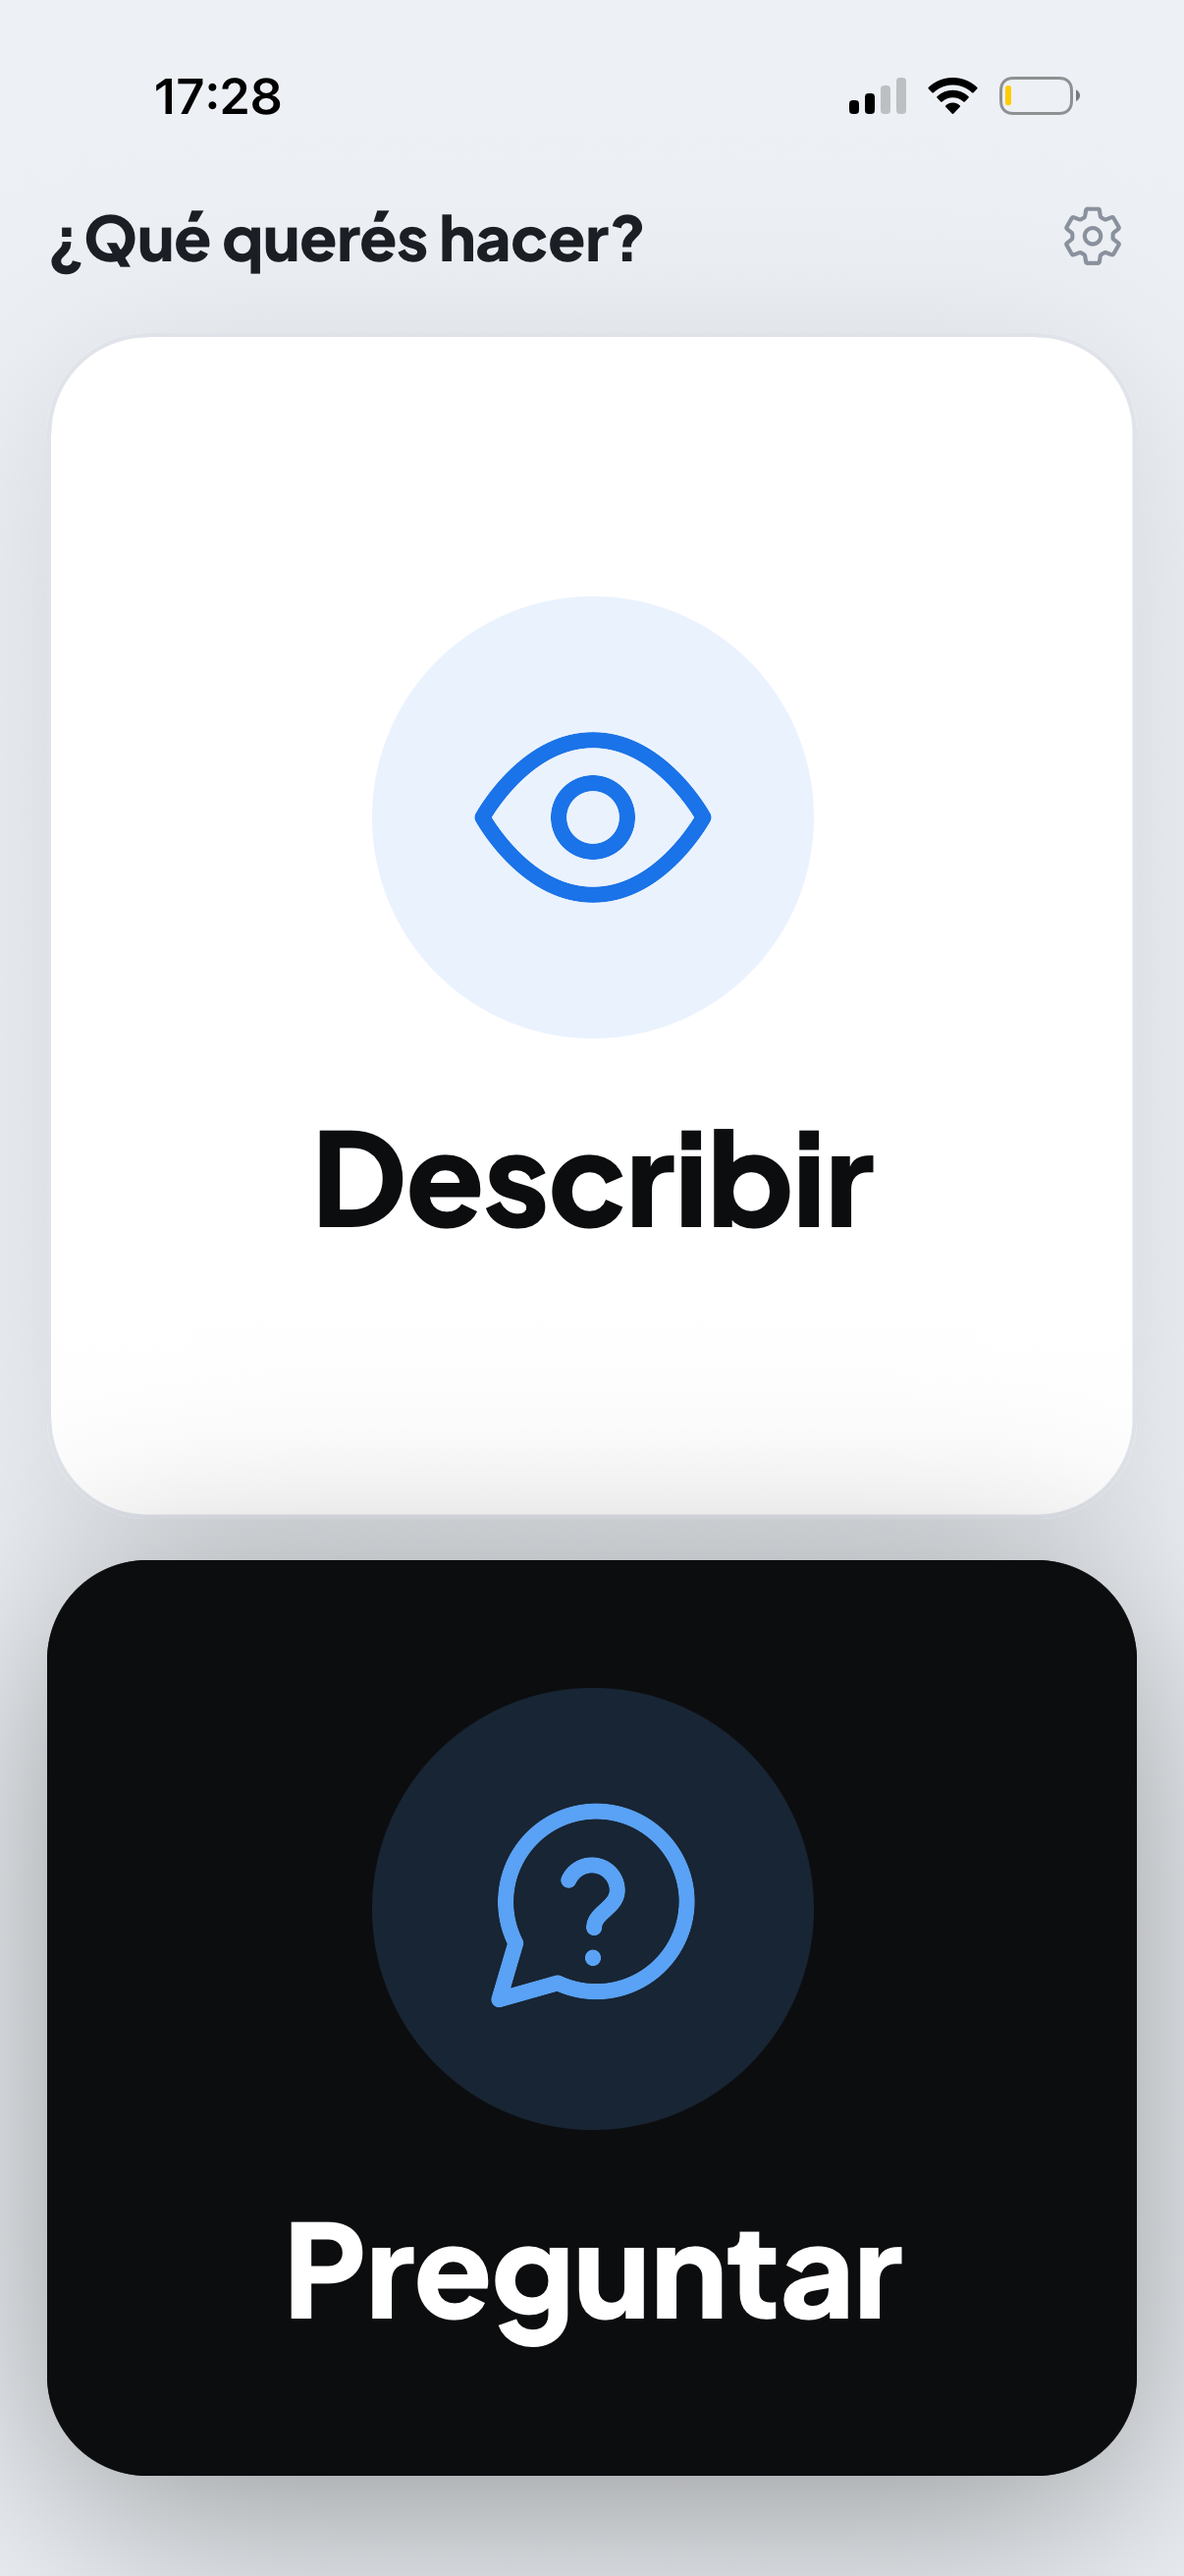
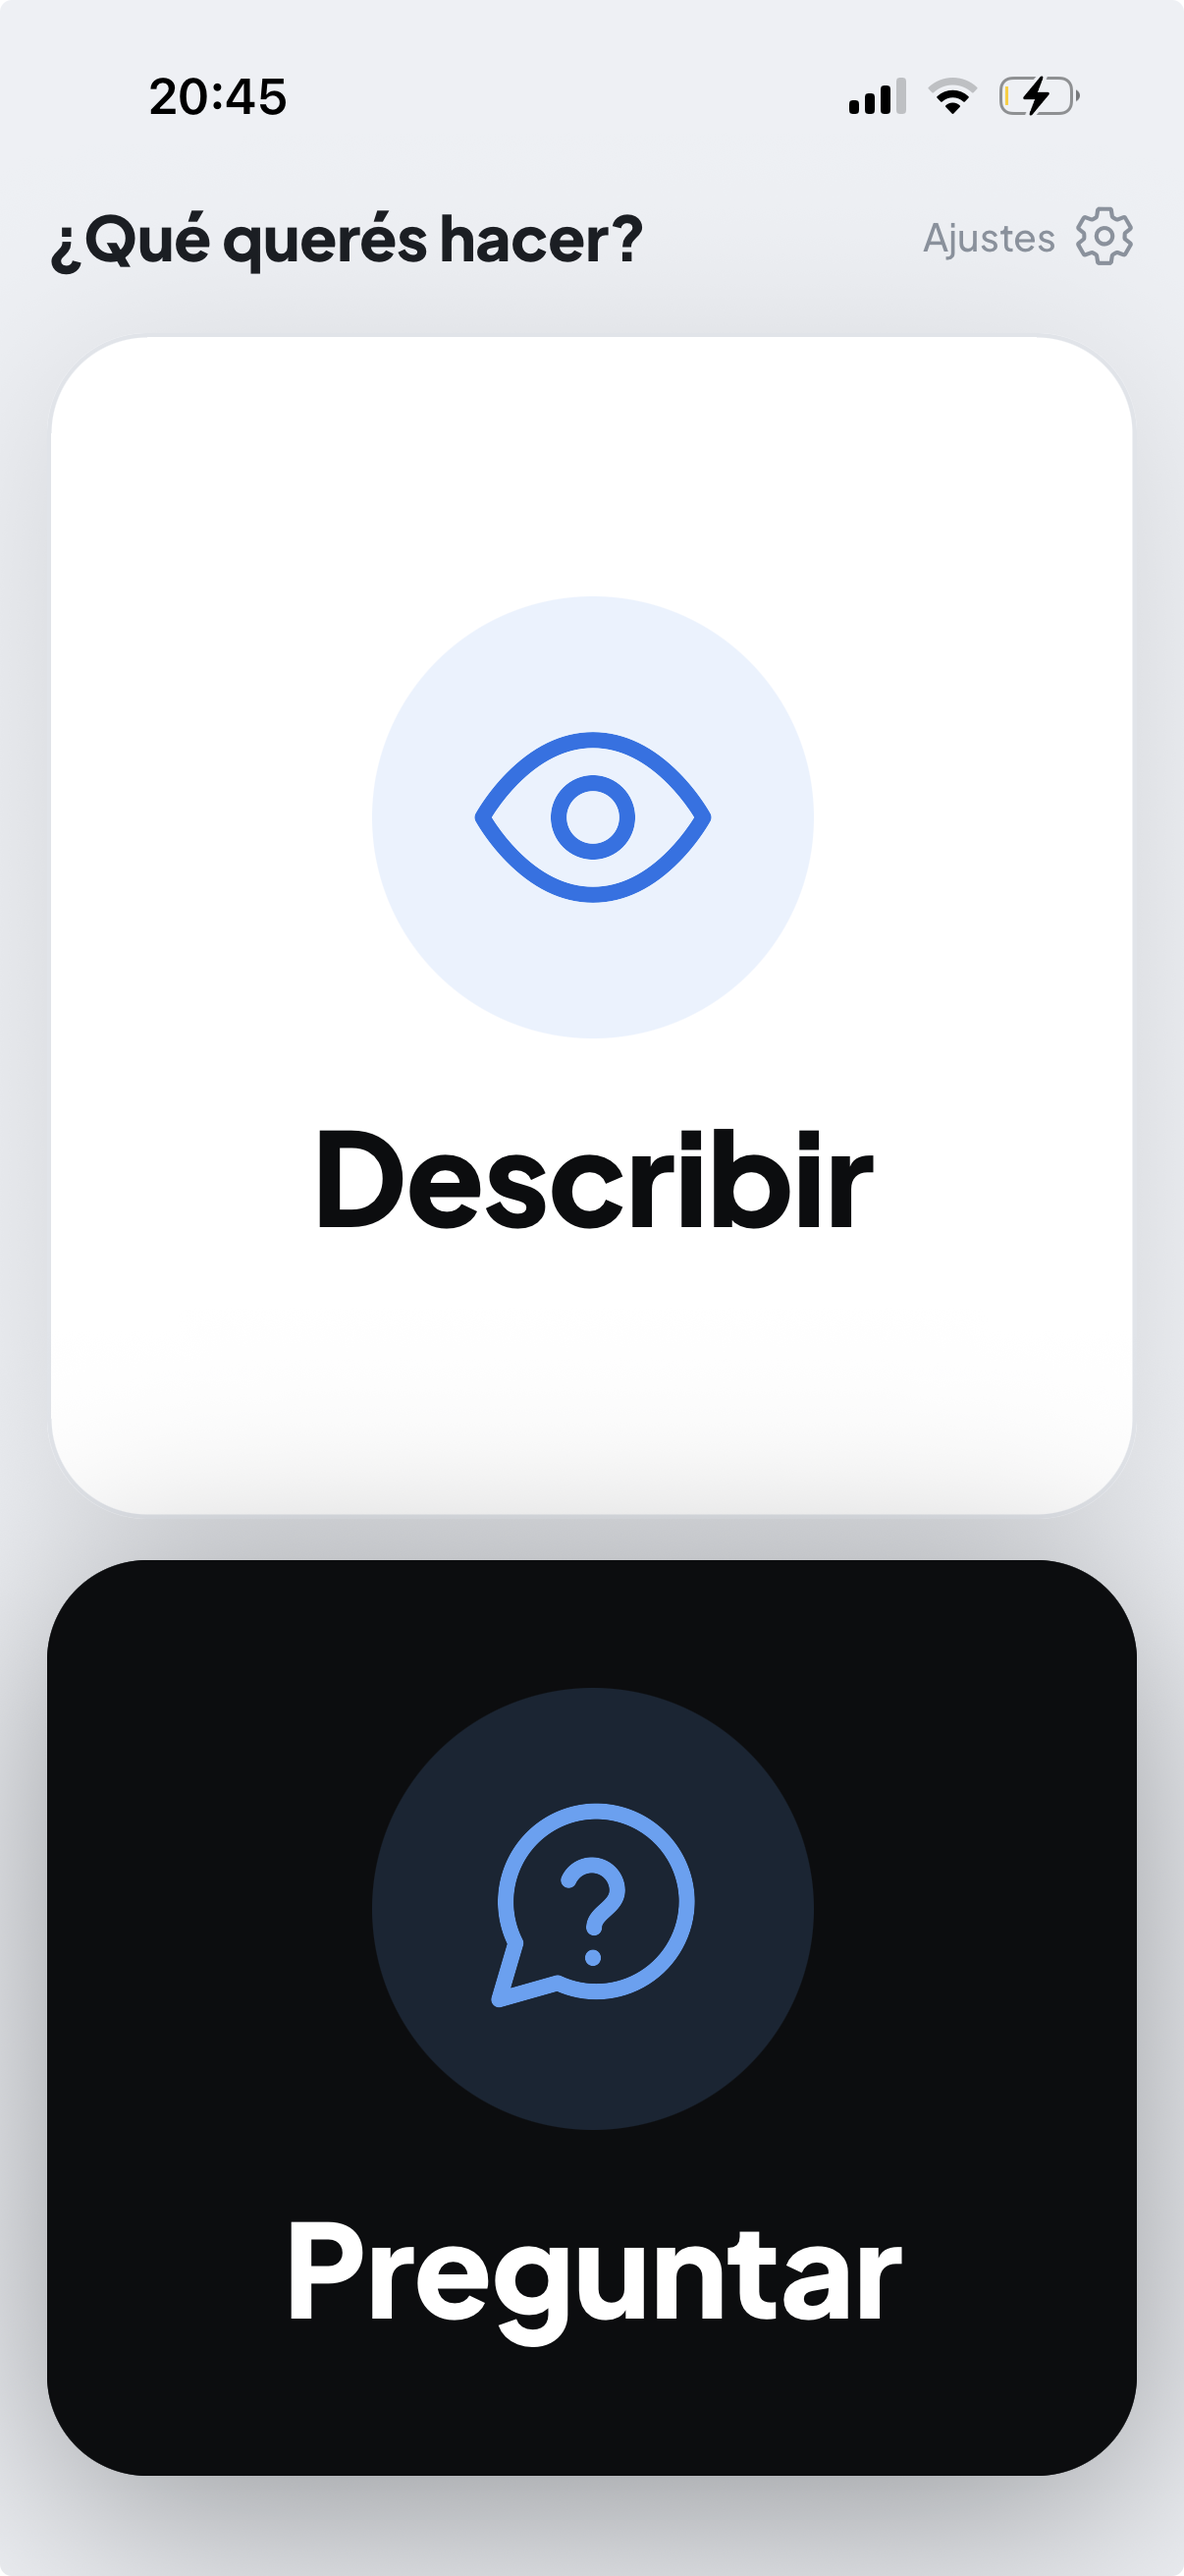
docs(readme): refresh Home screenshot + add guide peephole & Settings shots
- 02-home.png: updated Home (Ajustes label by the gear, taller Describir, iOS layout).
- Added 07-guide-searching / 08-guide-found (the peephole guide: "Buscando…" → "¡Ahí
  está!") and 09-settings (Setup → Settings: language, AI mode, voice, v0.11.0).

diff --git a/README.md b/README.md
@@ -43,6 +43,8 @@ cues for every state, and nothing that fails silently.
 | **Launch** — *"Hola, soy Lola"* | **Home** — two big actions: Describir / Preguntar | **Preguntar** — listening for your question |
 | <img src="screenshots/04-ask-result.png" width="240" alt="Ask result identifying the user's yerba" /> | <img src="screenshots/05-setup-things.png" width="240" alt="Setup — My things" /> | <img src="screenshots/06-setup-rooms.png" width="240" alt="Setup — Rooms" /> |
 | **Answer** — recognizes *your* saved object among look-alikes | **Setup — My things** — tag the objects you ask about | **Setup — Rooms** — map where you are |
+| <img src="screenshots/07-guide-searching.png" width="240" alt="Guide — homing in through the peephole" /> | <img src="screenshots/08-guide-found.png" width="240" alt="Guide — found it" /> | <img src="screenshots/09-settings.png" width="240" alt="Setup — Settings" /> |
+| **Guíame a X** — peephole homing ("Buscando…") | **Found** — "¡Ahí está!" | **Setup — Settings** — language, AI mode, voice |
 
 ## Tech stack
 
